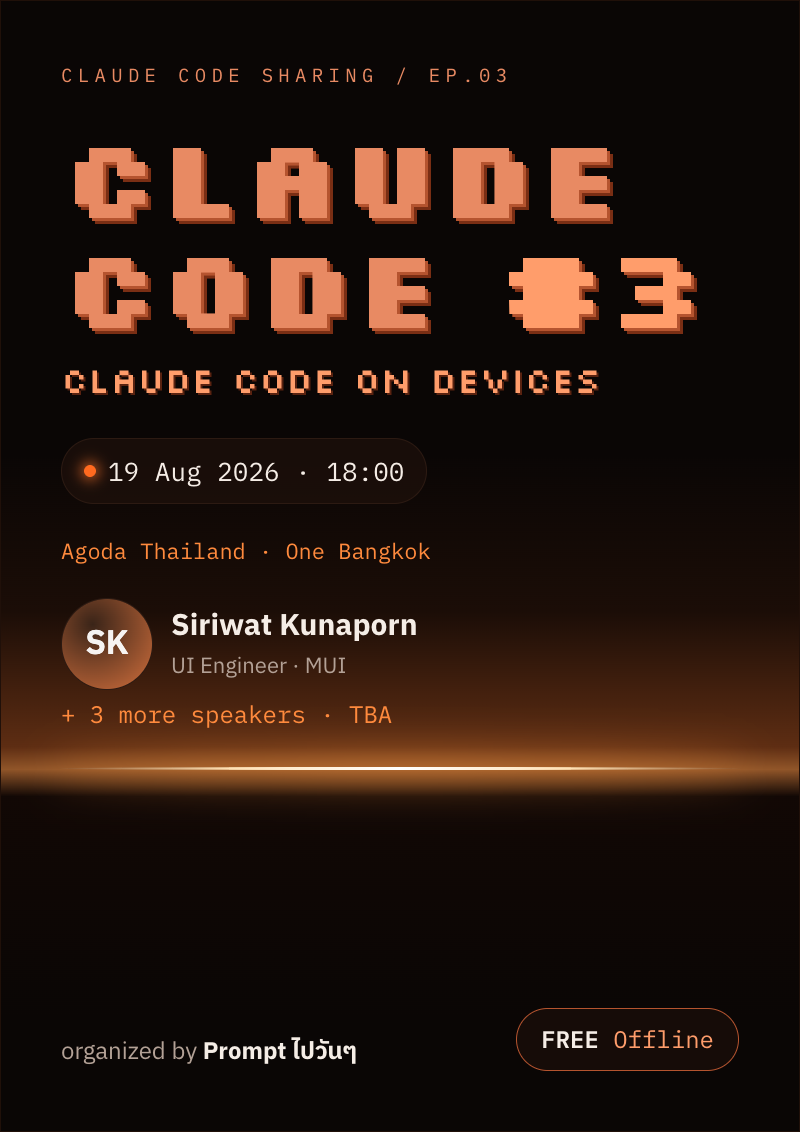
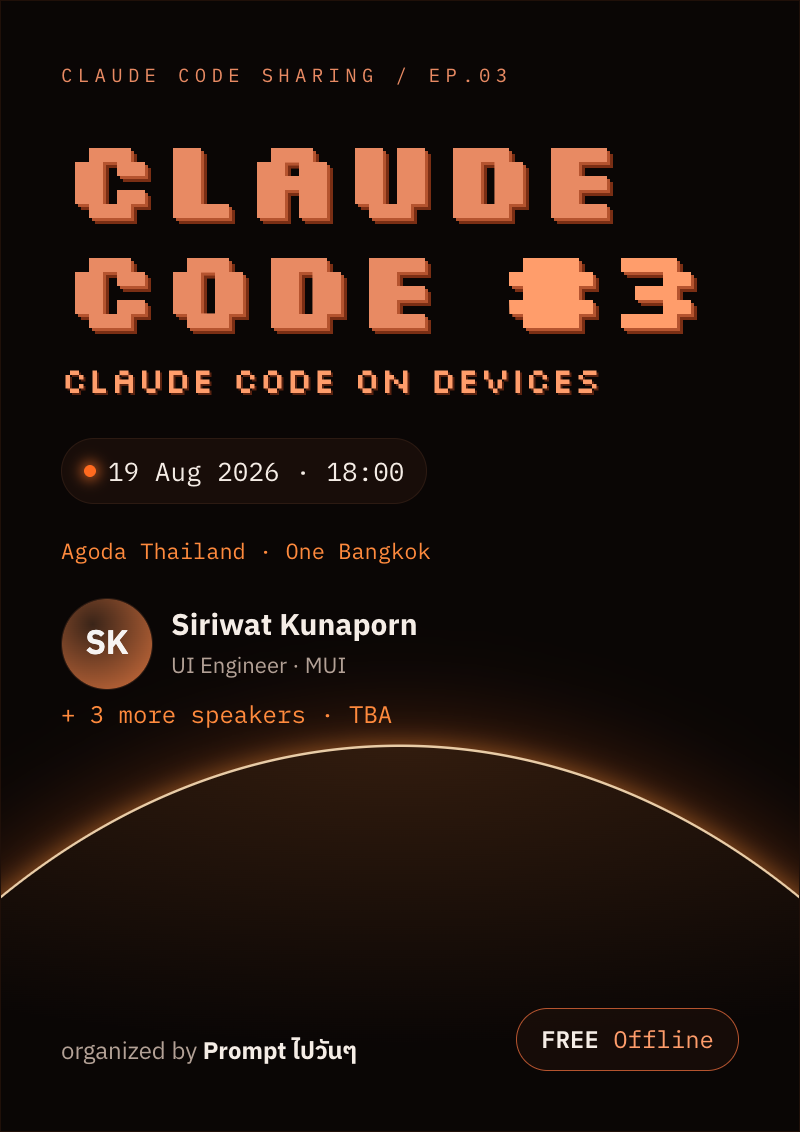
Rework horizon: straight glow line → curved planetary limb (hero + posters)

Changed region(s): [[0.0, 0.5256, 1.0, 0.8039]]

diff --git a/meetups/claude-code-3/styles.css b/meetups/claude-code-3/styles.css
@@ -47,9 +47,11 @@ a{color:inherit;text-decoration:none}
 .orga-line{display:flex;align-items:center;gap:.6rem;color:var(--ash);font-size:.9rem;margin-top:.5rem}
 .orga-line strong{color:var(--bone)}
 .orga-line img{width:34px;height:34px}
-.horizon{position:absolute;inset:0;z-index:1;pointer-events:none}
-.horizon::before{content:"";position:absolute;inset:0;background:linear-gradient(to bottom,transparent 40%,rgba(255,106,31,.07) 54%,rgba(255,120,45,.34) 66%,rgba(255,150,70,.55) 68%,rgba(18,8,5,.92) 70.4%,var(--void) 88%)}
-.horizon::after{content:"";position:absolute;left:7%;right:7%;top:67.8%;height:2px;background:linear-gradient(90deg,transparent,#ffe1b4 45%,#fff 50%,#ffe1b4 55%,transparent);box-shadow:0 0 26px 6px rgba(255,150,60,.7),0 0 70px 20px rgba(255,110,35,.35);border-radius:50%}
+.horizon{position:absolute;inset:0;z-index:1;pointer-events:none;overflow:hidden}
+/* atmospheric glow rising off the limb into space */
+.horizon::before{content:"";position:absolute;left:50%;bottom:0;transform:translateX(-50%);width:150%;height:60%;background:radial-gradient(ellipse 60% 95% at 50% 100%,rgba(255,134,54,.40),rgba(255,106,31,.10) 46%,transparent 66%)}
+/* the planet: dark body with a glowing curved limb (Earth from space) */
+.horizon::after{content:"";position:absolute;left:50%;top:70%;transform:translateX(-50%);width:220%;height:150vh;border-radius:50%;background:radial-gradient(ellipse 100% 30% at 50% 0%,rgba(255,140,60,.18),transparent 55%),var(--void);box-shadow:0 -1px 0 1.5px rgba(255,230,192,.85),0 2px 30px 4px rgba(255,150,60,.5),0 6px 100px 26px rgba(255,110,35,.26)}
 
 /* generic section */
 .section{padding:clamp(3rem,7vw,5rem) 0;border-top:1px solid var(--line)}
@@ -109,8 +111,8 @@ a{color:inherit;text-decoration:none}
 
 /* the poster artwork */
 .poster{position:absolute;top:0;left:0;transform-origin:top left;overflow:hidden;background:var(--void);color:var(--bone);box-shadow:0 24px 60px -20px rgba(0,0,0,.8);border:1px solid #201009}
-.poster .stagelight{position:absolute;inset:0;pointer-events:none;background:linear-gradient(to bottom,transparent 40%,rgba(255,106,31,.07) 54%,rgba(255,120,45,.34) 66%,rgba(255,150,70,.55) 68%,rgba(18,8,5,.92) 70.4%,var(--void) 90%)}
-.poster .light{position:absolute;left:7%;right:7%;top:67.8%;height:3px;background:linear-gradient(90deg,transparent,#ffe1b4,#fff,#ffe1b4,transparent);box-shadow:0 0 40px 10px rgba(255,150,60,.6);border-radius:50%}
+.poster .stagelight{position:absolute;left:50%;bottom:0;transform:translateX(-50%);width:150%;height:46%;pointer-events:none;background:radial-gradient(ellipse 58% 95% at 50% 100%,rgba(255,134,54,.40),rgba(255,106,31,.10) 46%,transparent 66%)}
+.poster .light{position:absolute;left:50%;top:66%;transform:translateX(-50%);width:200%;height:200%;border-radius:50%;background:radial-gradient(ellipse 100% 24% at 50% 0%,rgba(255,140,60,.16),transparent 55%),var(--void);box-shadow:0 -1px 0 1.5px rgba(255,230,192,.85),0 2px 26px 4px rgba(255,150,60,.5),0 6px 90px 22px rgba(255,110,35,.26)}
 .poster .pcontent{position:relative;z-index:2;height:100%;display:flex;flex-direction:column;padding:56px}
 .pk-eyebrow{font-family:"IBM Plex Mono",monospace;letter-spacing:.28em;font-size:19px;color:var(--coral)}
 .pk-title{font-family:"Silkscreen",monospace;font-weight:700;color:var(--coral);line-height:.98;text-shadow:3px 3px 0 var(--coral-deep),6px 6px 0 var(--coral-shadow)}
@@ -155,8 +157,8 @@ a{color:inherit;text-decoration:none}
 .poster[data-mode="landscape"] .pk-more{font-size:20px}
 .poster[data-mode="landscape"] .pk-badge{font-size:19px}
 .poster[data-mode="landscape"] .pk-orga{font-size:19px}
-.poster[data-mode="landscape"] .light{top:auto;bottom:-4%;left:-6%;right:42%}
-.poster[data-mode="landscape"] .stagelight{background:radial-gradient(85% 70% at 16% 100%,rgba(255,120,45,.4),transparent 60%)}
+.poster[data-mode="landscape"] .light{top:80%}
+.poster[data-mode="landscape"] .stagelight{height:34%}
 .poster[data-mode="landscape"] .pk-speakers{display:flex;flex-direction:column;gap:16px}
 
 /* footer */
